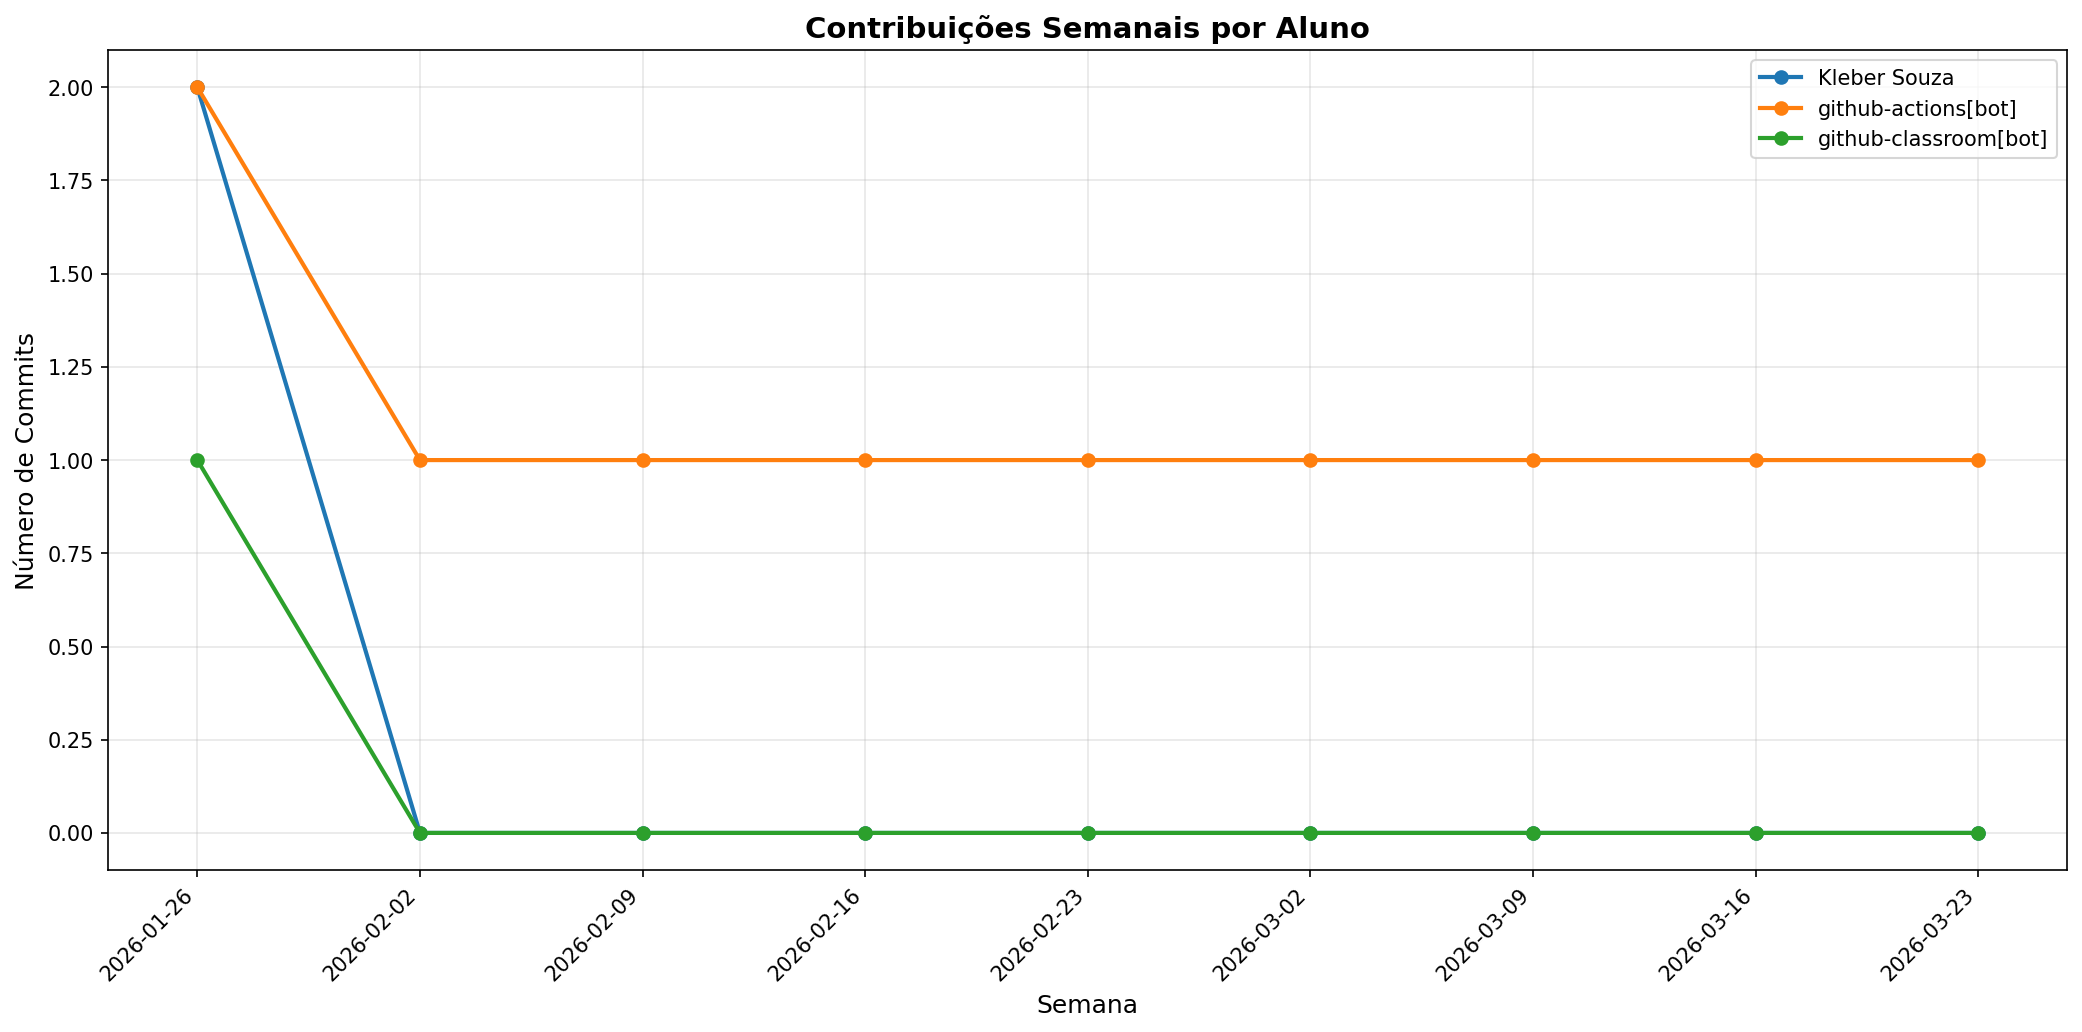
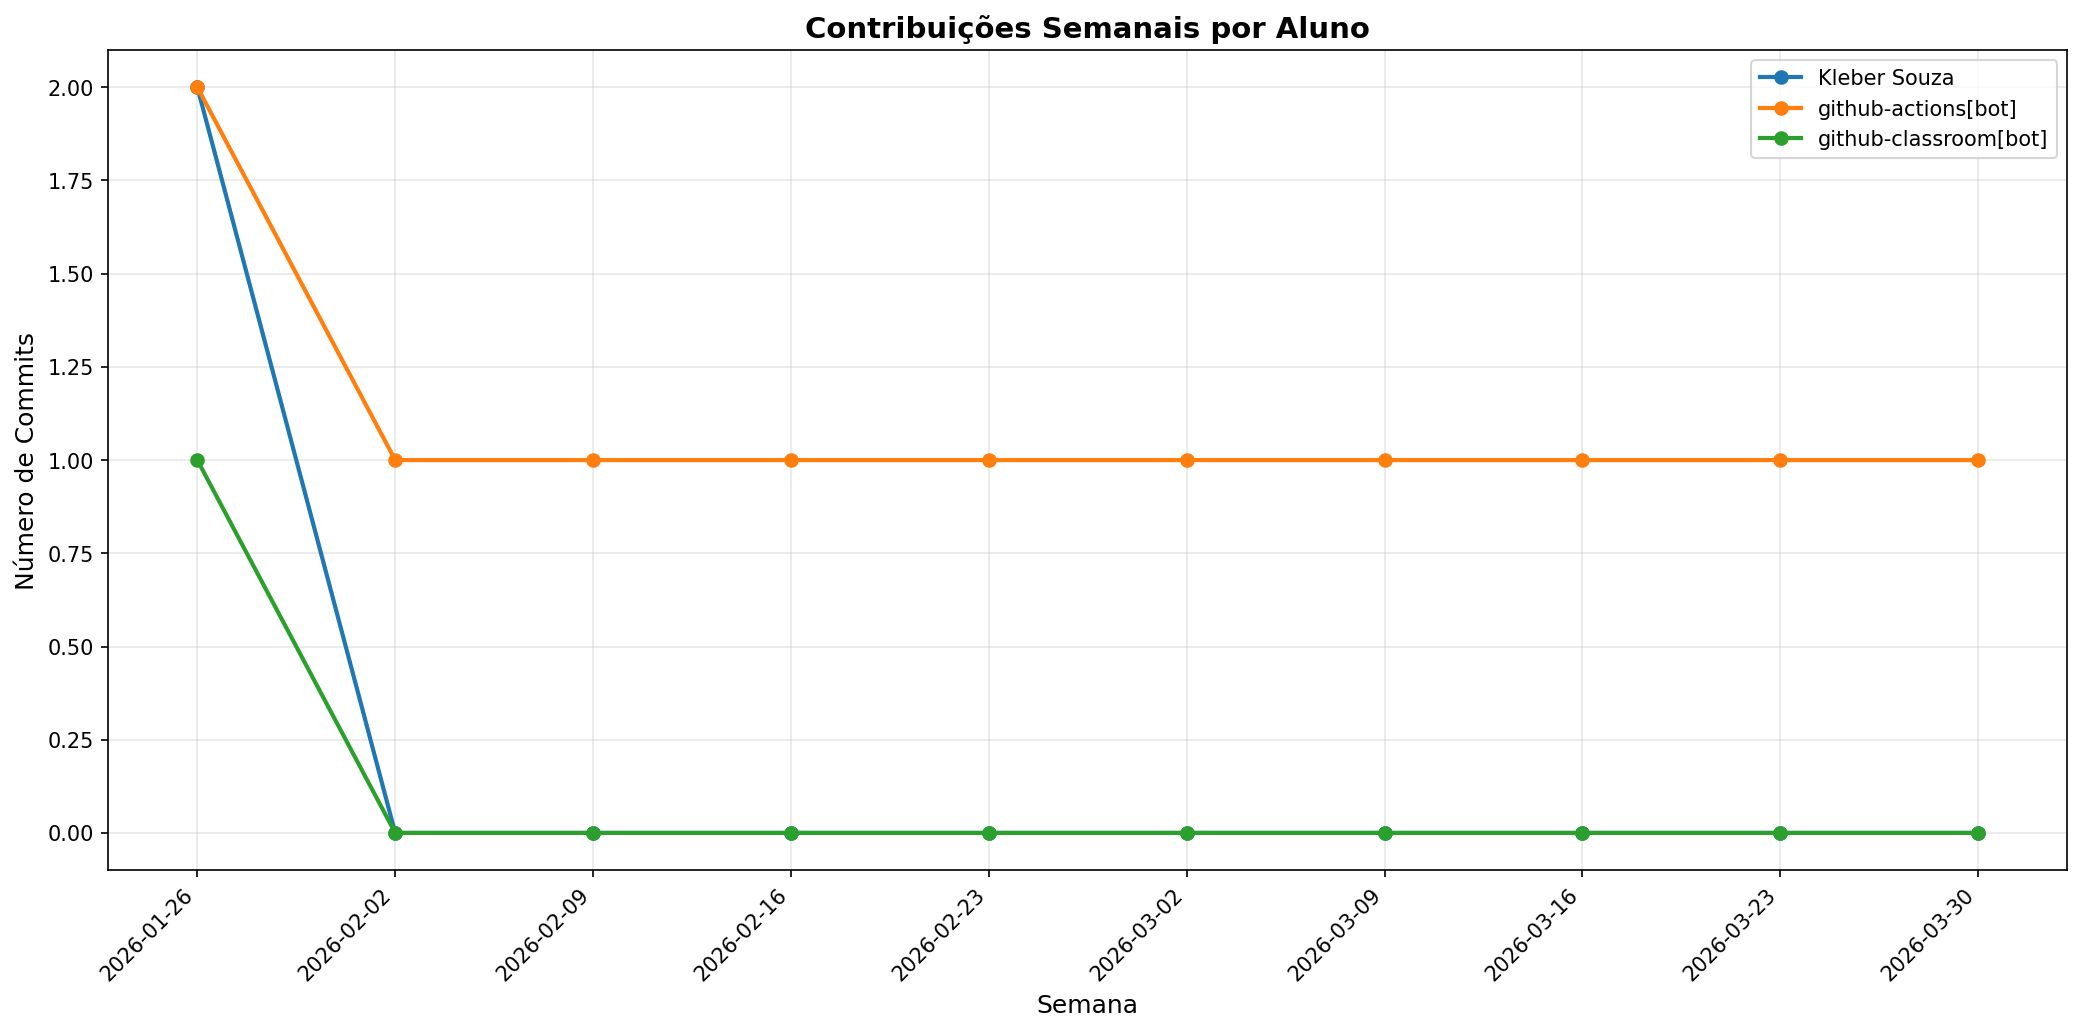
📊 Atualizar relatório de contribuições [skip ci]

diff --git a/docs/CONTRIBUTION_REPORT.md b/docs/CONTRIBUTION_REPORT.md
@@ -1,6 +1,6 @@
 # 📊 Relatório de Contribuições do Projeto
 
-**Última atualização:** 06/04/2026 03:28
+**Última atualização:** 13/04/2026 03:39
 
 ---
 
@@ -9,11 +9,13 @@
 | Aluno                 |   Commits |   Linhas+ |   Linhas- |   Arquivos |   Docs Commits |   Docs Arquivos |
 |-----------------------|-----------|-----------|-----------|------------|----------------|-----------------|
 | Kleber Souza          |         2 |         2 |         2 |          2 |              2 |               2 |
-| github-actions[bot]   |        10 |        57 |        56 |          3 |             10 |               1 |
+| github-actions[bot]   |        11 |        61 |        58 |          3 |             11 |               1 |
 | github-classroom[bot] |         1 |      2291 |         0 |         45 |              1 |              13 |
 
 
 ## 📅 Contribuições Semanais (Todo o Semestre)
+
+**2026-03-30**: github-actions[bot]: 1
 
 **2026-03-23**: github-actions[bot]: 1
 
